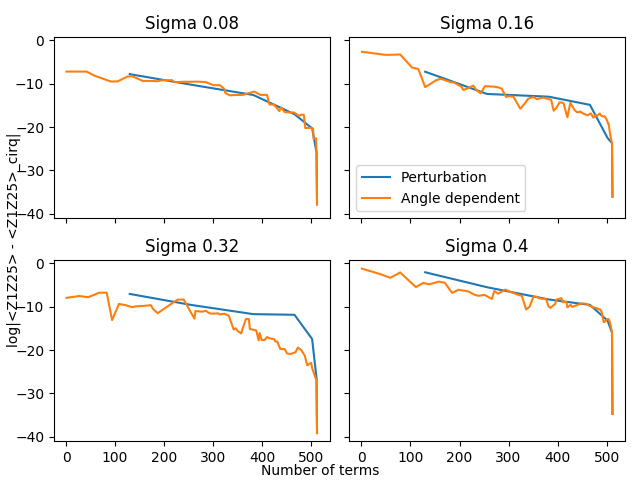
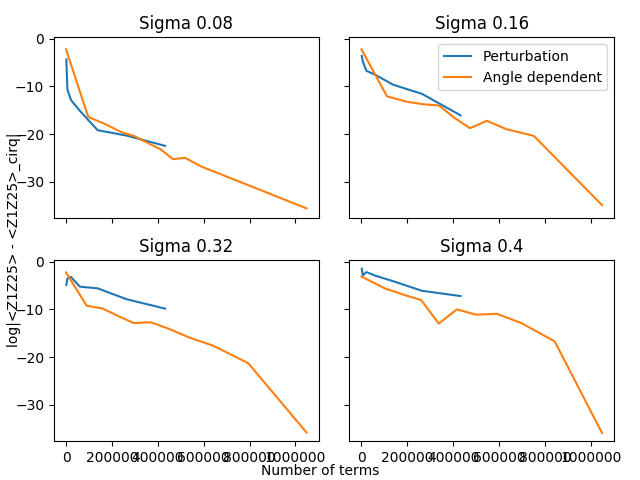
tidy up

diff --git a/s_builder_comparison.py b/s_builder_comparison.py
@@ -59,17 +59,17 @@ def plot_activation_distribution(ansatz_len, s, filename):
 
 
 
-N = 20
-H = Z_expectation_val(N,array_method = False)
-ansatz_full = random_circuit(N, 8, array_method=False)
+N = 8
+H = TFIM(N, -1)#Z_expectation_val(N,array_method = False)
+ansatz_full = QAOA(N, 8)#random_circuit(N, 8, array_method=False)
 lightc = lightcone(H, ansatz_full, order_max = 5)
 
-ansatz = lightc[2]
+ansatz = lightc[5]
 print(len(ansatz), len(lightc[2]),len(ansatz_full))
 
-# thetas = np.random.randn(len(ansatz))*0.3
-# print("thetas", thetas)
-# K = np.random.choice([0,-1, 1, 2, -2], len(ansatz))
+thetas = np.random.randn(len(ansatz))*0.3
+print("thetas", thetas)
+K = np.random.choice([0,-1, 1, 2, -2], len(ansatz))
 # print('-----------')
 # print('Perturabation theory s -tree')
 # order = 3
@@ -91,7 +91,7 @@ print(len(ansatz), len(lightc[2]),len(ansatz_full))
 
 # n_terms_1 = []
 # times_1 = []
-# for order in [2,3,4,5,6,7]:
+# for order in [3,4,5,6,7]:
 #     print('order', order)
 #     time_expansion = time()
 #     s = s_dict(N, ansatz, K, order)
@@ -106,7 +106,7 @@ print(len(ansatz), len(lightc[2]),len(ansatz_full))
 
 # n_terms_2 = []
 # times_2 = []
-# for treshold in [0.5,0.2,0.1,0.07,0.05,0.01,5e-3, 1e-3, 7e-4]:
+# for treshold in [0.1,0.07,0.05,0.01,5e-3,5e-4,1e-4]:
 #     print('treshold', treshold)
 #     time_s = time()
 #     s_angle = s_dict_tree(N, ansatz, K, thetas, treshold = treshold)
@@ -117,20 +117,20 @@ print(len(ansatz), len(lightc[2]),len(ansatz_full))
 #     print("number of terms:",n_terms2)
 #     print("time for s_dict:", time_s)
 
-# plt.plot(n_terms_1, times_1, label="perturbative")
 # plt.plot(n_terms_2, times_2, label = "treshold")
+# plt.plot(n_terms_1, times_1, label="perturbative")
 # plt.legend()
 # plt.xlabel("Number of terms")
-# plt.ylabel("Time")
+# plt.ylabel("Time (s)")
 # plt.savefig("time_complexities.png")
 
 
 
 
 import pandas as pd
-samples = 20
+samples = 15
 sigmas = [0.08,0.16,0.32,0.4]
-orders = [3,4,5,6,7,8,9]
+orders = [3,4,5,6,7,8]
 tresholds = np.arange(samples)
 data = pd.DataFrame(columns = sigmas, index = orders)
 data_2 = pd.DataFrame(columns = sigmas, index = tresholds)
@@ -156,8 +156,8 @@ for sigma in sigmas:
         n_terms_1[sigma][order] = count_number_of_terms(s)
 
     tangent_products = tan_prd_list(s, thetas)
-    trsh = np.linspace(0, len(tangent_products)-1,samples+20, dtype =int)
-    trsh = [tangent_products[i] for i in trsh[20:]]
+    trsh = np.linspace(0, len(tangent_products)-1,samples+5, dtype =int)
+    trsh = [tangent_products[i] for i in trsh[5:]]
 
     for j, tresh in enumerate(tresholds):
         s_angle = s_dict_tree(N, ansatz, K, thetas, treshold = trsh[j])
@@ -179,7 +179,7 @@ data_2.to_csv("reproducing_results/data/s_comp_2.csv", sep = ";")
 a = pd.read_csv("reproducing_results/data/s_comp_1.csv", index_col = 0, delimiter = ";")
 b = pd.read_csv("reproducing_results/data/s_comp_2.csv",index_col = 0, delimiter = ";")
 
-fig, axs = plt.subplots(2, 2, sharey=True, sharex=True)
+fig, axs = plt.subplots(2, 2, sharey=True)
 
 
 axs = axs.flatten()
@@ -191,10 +191,11 @@ for k, sigma in enumerate(a.columns):
     axs[k].plot(nterms, l_1, label = f"Perturbation")
     axs[k].plot(nterms2, l_2, label = "Angle dependent")
     axs[k].set_title(f"Sigma {sigma}")
+    axs[k].ticklabel_format(style='sci', axis='x', scilimits=(0,0))
 fig.text(0.5, 0.01, 'Number of terms', ha='center')
-fig.text(0.01, 0.5, "log|<Z1Z25> - <Z1Z25>_cirq|", va='center', rotation='vertical')
+fig.text(0.01, 0.5, "log|Error|", va='center', rotation='vertical')
 fig.tight_layout()
 axs[1].legend()
 
-fig.savefig('s_comparison.png')   # save the figure to file
+fig.savefig('s_comparison_2.png')   # save the figure to file
 plt.close(fig) 

diff --git a/s_dict_builder.py b/s_dict_builder.py
@@ -30,8 +30,6 @@ def s_dict(N, ansatz, K, order, prepare_x_basis = False):
                 l = list.copy()
                 l[last_nonzero+1] = 1
                 next_order(l, last_nonzero+1, add_order-1, factor = factor, state = state)
-
-            if last_nonzero < len(list)-1:
                 next_order(list, 1+last_nonzero, add_order, calc = False, factor = factor, state = state)
 
     next_order(firstorder, -1, order, calc = False)
@@ -63,7 +61,7 @@ def s_dict_tree(N, ansatz, K, thetas, treshold, prepare_x_basis = False):
 
     
     #index of last nonzeror element in firstorder
-    def next_order(list, last_nonzero, calc = True, factor = 1, state = [0]*N):
+    def next_order(list, last_nonzero, calc = True, factor = 1, state = [0]*N, prod = 1):
         if calc:
             pauli_operator = T_K[last_nonzero]
             f, state = pauli_operator.state(np.array(state))
@@ -77,15 +75,13 @@ def s_dict_tree(N, ansatz, K, thetas, treshold, prepare_x_basis = False):
                 current[0].append(list)
                 current[1].append(factor)
 
-        prod = tangent_product(list, tan_thetas)
+        #prod = tangent_product(list, tan_thetas)
         if abs(prod) > treshold:
             if last_nonzero < len(list)-1:
                 l = list.copy()
                 l[last_nonzero+1] = 1
-                next_order(l, last_nonzero+1, factor = factor, state = state)
-
-            if last_nonzero < len(list)-1:
-                next_order(list, 1+last_nonzero, calc = False, factor = factor, state = state)
+                next_order(l, last_nonzero+1, factor = factor, state = state, prod = prod*tan_thetas[last_nonzero+1])
+                next_order(list, 1+last_nonzero, calc = False, factor = factor, state = state, prod = prod)
 
     next_order(firstorder, -1, calc = False)
 

diff --git a/K_cell_searching.py b/K_cell_searching.py
@@ -120,11 +120,10 @@ def find_K(N, ansatz, H, iterations, order, boundary = "hypersphere",log=True, m
             args = (s, G_K, order, HVA)
             prev_angles_global = local_to_global_angle(node_above["angles"], node_above["K"])
             #translate to angles in current K_cell
-            init_angles = torch.tensor(global_to_local_angle(prev_angles_global, K).copy(),requires_grad=True)
+            init_angles = np.array(global_to_local_angle(prev_angles_global, K).copy())
 
-        #optimizer = E_optimizer(energy, init_angles, method = method, args = args)
-
-        result = gradient_optimizer(init_angles, energy, args = args, max_iter = 200)
+        optimizer = E_optimizer(energy, init_angles, method = method, args = args)
+        result = optimizer.optim()
 
         #get indices of magic gates
         gates_zipped = zip(np.pi/8 - abs(result.x), range(len(result.x)))
@@ -134,7 +133,7 @@ def find_K(N, ansatz, H, iterations, order, boundary = "hypersphere",log=True, m
 
         #get indices of gates close enough to magic angle
         magic_indices = [gates_sorted[1] for gates_sorted in gates_sorted if gates_sorted[0] < epsilon]
-        print(magic_indices)
+        print('Magic indices: ', magic_indices)
 
 
 

diff --git a/K_finding.py b/K_finding.py
@@ -1,20 +1,21 @@
 from K_cell_searching import *
 from tqdm import tqdm
 
-for N in [6,7]:
+for N in [10]:
     L = 4
     HVA = False
     X_H = -1
-    ansatz = QAOA(N, L)
-    H = TFIM(N, X_H)
+    ansatz = random_circuit(N, 8)
+    H = Z_expectation_val(N)
+    lightc = lightcone(H, ansatz, order_max = 8)
+    print([len(l) for l in lightc.values()])
+    ansatz = lightc[3]
     iterations = 10
-    order = 6
+    order = 4
     boundary = "hypersphere"
     filename = "table.csv"
     matrix_min = None
     input = [N, "QAOA", "TFIM", X_H, L, order, boundary, iterations]
-    #gradient-free optimization
-    #methods = ["Nelder-Mead", "Powell", "CG", "BFGS", "L-BFGS-B", "TNC", "COBYLA", "SLSQP", "trust-constr", "dogleg", "trust-ncg", "trust-exact", "trust-krylov"]
     methods = ["SLSQP"]
     for method in methods:
         start = time()

diff --git a/custom_optimizer.py b/custom_optimizer.py
@@ -1,15 +1,13 @@
 import scipy
 import numpy as np
 import matplotlib.pyplot as plt
-import torch
-import torch.nn as nn
 from dataclasses import dataclass
 
 #Optimization class for optizing inside the K-cell
 class E_optimizer:
     def __init__(self, func, x0, args = (), boundary = "hypersphere", epsilon= 1e-4, method = "SLSQP"):
         self.func = func
-        self.x0 = torch.tensor(x0, requires_grad=True)
+        self.x0 = x0
         self.boundary = boundary
         self.epsilon = epsilon
         self.args = args
@@ -41,6 +39,7 @@ class Result:
     nfev: int
 
 def gradient_optimizer(x, f, args, max_iter, tol = 1e-4):
+    import torch 
     optimizer = torch.optim.Adam([x],lr=0.05)
     x_before = np.inf
     corner = np.sqrt(len(x)*(np.pi/8)**2)
